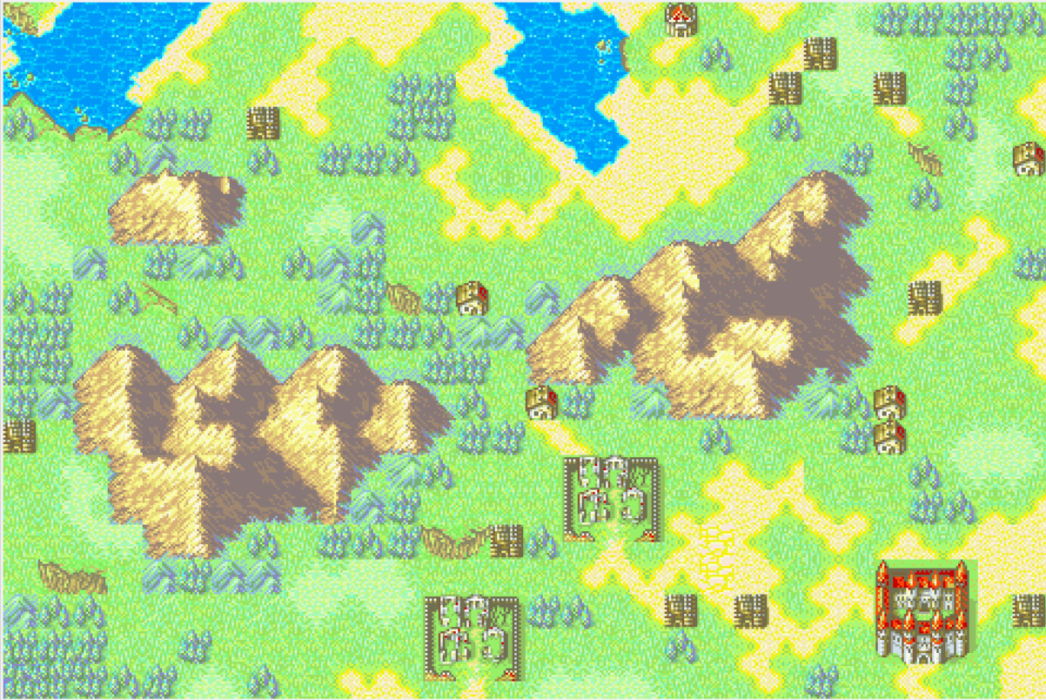
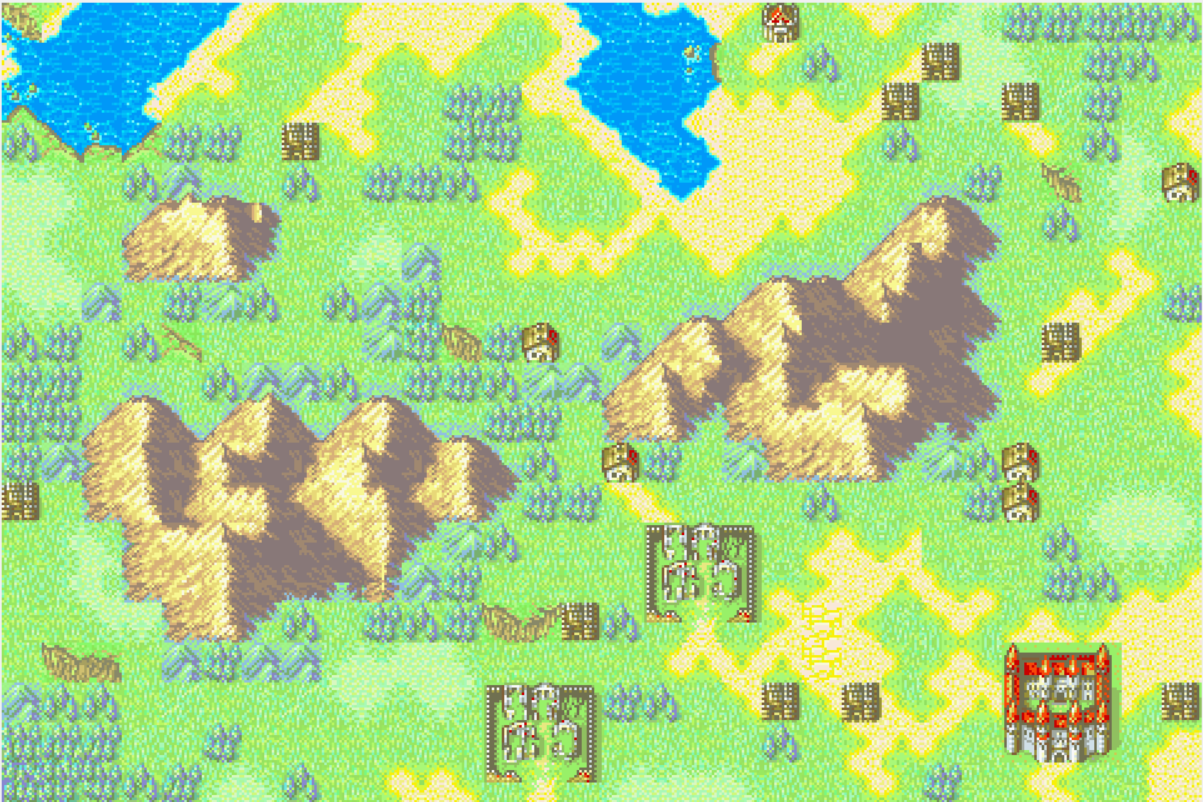
init

diff --git a/src/all_word/init_w_sprite.c b/src/all_word/init_w_sprite.c
@@ -13,10 +13,43 @@
 
 void destory_all_w_maps(Global_t *m)
 {
+    sfSprite_destroy(m->zone1.w1_map);
+    sfTexture_destroy(m->zone1.w1_Map);
 
+    sfSprite_destroy(m->univers.sprite_roy);
+    sfSprite_destroy(m->univers.sprite_infe);
+    sfSprite_destroy(m->univers.sprite_xmara);
+    sfSprite_destroy(m->univers.sprite_pate);
+    sfSprite_destroy(m->univers.sprite_raca);
+    sfTexture_destroy(m->univers.texture_roy);
+    sfTexture_destroy(m->univers.texture_infe);
+    sfTexture_destroy(m->univers.texture_xmara);
+    sfTexture_destroy(m->univers.texture_pate);
+    sfTexture_destroy(m->univers.texture_raca);
 }
 
 void init_w_sprite(Global_t *m)
 {
     m->zone1.w1_map = sfSprite_create();
+    m->zone1.w1_Map = sfTexture_createFromFile("maps/map1/map1.png", NULL);
+    m->zone1.view_w1 = sfView_createFromRect((sfFloatRect){0, 0, 1203, 802});
+    m->univers.rect = (sfIntRect){0, 512 + 65 * 2, 65, 65};
+    sfSprite_setTexture(m->zone1.w1_map, m->zone1.w1_Map, sfFalse);
+    m->univers.sprite_roy = sfSprite_create();
+    m->univers.sprite_infe = sfSprite_create();
+    m->univers.sprite_xmara = sfSprite_create();
+    m->univers.sprite_pate = sfSprite_create();
+    m->univers.sprite_raca = sfSprite_create();
+    m->univers.texture_roy = sfTexture_createFromFile(m->perso[ROY].texture_battle, NULL);
+    m->univers.texture_infe = sfTexture_createFromFile(m->perso[INFENIUM].texture_battle, NULL);
+    m->univers.texture_xmara = sfTexture_createFromFile(m->perso[XMARANO].texture_battle, NULL);
+    m->univers.texture_pate = sfTexture_createFromFile(m->perso[PATECARBO].texture_battle, NULL);
+    m->univers.texture_raca = sfTexture_createFromFile(m->perso[RACAILLOU].texture_battle, NULL);
+    sfSprite_setTexture(m->univers.sprite_roy, m->univers.texture_roy, sfTrue);
+    sfSprite_setScale(m->univers.sprite_roy, (sfVector2f){0.61, 0.61});
+    sfSprite_setTextureRect(m->univers.sprite_roy, m->univers.rect);
+    // sfSprite_setTexture();
+    // sfSprite_setTexture();
+    // sfSprite_setTexture();
+    // sfSprite_setTexture();
 }

diff --git a/src/dialogue_code/dialogue_animation.c b/src/dialogue_code/dialogue_animation.c
@@ -19,24 +19,23 @@ static void change_bool(Global_t *m, hub_t *hub, int word)
         m->hub.prologue_ok = true;
         return;
     }
-    m->current = 14;
     sfRenderWindow_setView(m->window, hub->normal_view);
     if (word == 1)
-        m->hub.what_word = 1;
-    if (word == 2)
-        m->zone2.is_w2_clear = true;
-    if (word == 3)
-        m->zone3.is_w3_clear = true;
-    if (word == 4)
-        m->zone4.is_w4_clear = true;
-    if (word == 5)
-        m->zone5.is_w5_clear = true;
-    if (word == 6)
-        m->zone6.is_w6_clear = true;
-    if (word == 7)
-        m->zone7.is_w7_clear = true;
-    if (word == 8)
-        m->zone8.is_w8_clear = true;
+        m->current = 1;
+    // if (word == 2)
+    //     m->zone2.is_w2_clear = true;
+    // if (word == 3)
+    //     m->zone3.is_w3_clear = true;
+    // if (word == 4)
+    //     m->zone4.is_w4_clear = true;
+    // if (word == 5)
+    //     m->zone5.is_w5_clear = true;
+    // if (word == 6)
+    //     m->zone6.is_w6_clear = true;
+    // if (word == 7)
+    //     m->zone7.is_w7_clear = true;
+    // if (word == 8)
+    //     m->zone8.is_w8_clear = true;
 }
 
 void readdialoguefromfile(Global_t *m, char *filename,

diff --git a/src/loading_screen.c b/src/loading_screen.c
@@ -51,26 +51,13 @@ void bcl(float time, sfClock *clock)
     while (sfTime_asSeconds(sfClock_getElapsedTime(clock)) - time < 0.3f);
 }
 
-static void set_current(Global_t *m)
-{
-    if (m->hub.what_word == 1)
-        m->current = 1;
-    if (m->hub.what_word == 2)
-        m->current = 2;
-    if (m->hub.what_word == 3)
-        m->current = 3;
-        // suite jusqu'a 8
-    if (m->hub.what_word == 12) // hub a swap to 0 (askip)
-        m->current = 12;
-}
-
 static void prt(Global_t *m, sfVector2f vert_pose)
 {
     sfSprite_setPosition(m->loading.vert, vert_pose);
     sfRenderWindow_drawSprite(m->window, m->loading.vert, NULL);
     sfRenderWindow_drawSprite(m->window, m->loading.fond, NULL);
     sfRenderWindow_display(m->window);
-    set_current(m);
+    m->current = 12;
 }
 
 void loading_screen(Global_t *m)

diff --git a/src/include/worlds.h b/src/include/worlds.h
@@ -78,8 +78,24 @@ typedef struct Shop {
     int spacing_y;
 }Shop_t;
 
+typedef struct Zone {
+    sfIntRect rect;
+
+    sfSprite *sprite_roy;
+    sfSprite *sprite_infe;
+    sfSprite *sprite_xmara;
+    sfSprite *sprite_pate;
+    sfSprite *sprite_raca;
+
+    sfTexture *texture_roy;
+    sfTexture *texture_infe;
+    sfTexture *texture_xmara;
+    sfTexture *texture_pate;
+    sfTexture *texture_raca;
+}ZoneUniversel_t;
+
 typedef struct Zone1 {
-    /* data */
+    sfView *view_w1;
     sfSprite *w1_map;
     sfTexture *w1_Map;
     bool is_w1_clear;

diff --git a/src/menu/menu.c b/src/menu/menu.c
@@ -89,7 +89,7 @@ void draw_mouse(Global_t *m)
     sfVector2f pos_c = {m->mouse.x, m->mouse.y};
 
     sfSprite_setPosition(m->menu.cursor, pos_c);
-    if (m->show_mouse == true && m->mouse.y > -1 && m->mouse.x > -1
-    && m->current != 12 && m->current != 9)
+    if (m->show_mouse == true && m->mouse.y > -1 &&
+    m->mouse.x > -1 && m->current == 10)
         sfRenderWindow_drawSprite(m->window, m->menu.cursor, NULL);
 }

diff --git a/src/all_word/monde1.c b/src/all_word/monde1.c
@@ -13,6 +13,9 @@
 
 void draw_monde1(Global_t *m, hub_t *hub)
 {
-    if (m->current == 1)
-        printf("dd\n");
+    if (m->current == 1) {
+        sfRenderWindow_setView(m->window, m->zone1.view_w1);
+        sfRenderWindow_drawSprite(m->window, m->zone1.w1_map, NULL);
+        sfRenderWindow_drawSprite(m->window, m->univers.sprite_roy, NULL);
+    }
 }

diff --git a/src/hub/hub.c b/src/hub/hub.c
@@ -29,7 +29,6 @@ static void init_hub2(Global_t *m, hub_t *h)
 
     m->hub.swap_clock = sfClock_create();
     m->dialogue.dia_name = sfText_create();
-    m->hub.what_word = 12;
     m->dialogue.Font = sfFont_createFromFile("assets/dialogue_font.ttf");
     sfText_setFont(m->dialogue.dia_name, m->dialogue.Font);
     m->hub.cadre = sfSprite_create();

diff --git a/src/main.c b/src/main.c
@@ -65,8 +65,8 @@ static void initalisateur2sprite(Global_t *m, hub_t *h)
     import_weapons_stats(m);
     init_pouill_dialog(m);
     init_hub(h, m);
-    init_w_sprite(m);
     setup_stat(m);
+    init_w_sprite(m);
     init_menu(m);
     init_inventaire(m);
     init_shop(m);

diff --git a/src/rpg.h b/src/rpg.h
@@ -104,6 +104,7 @@ typedef struct Glob {
     Loading_t loading; /*Yanis*/
     Dialogue_t dialogue;
     Shop_t shop; /*Yanis*/
+    ZoneUniversel_t univers;
     Zone1_t zone1;
     Zone2_t zone2;
     Zone3_t zone3;
